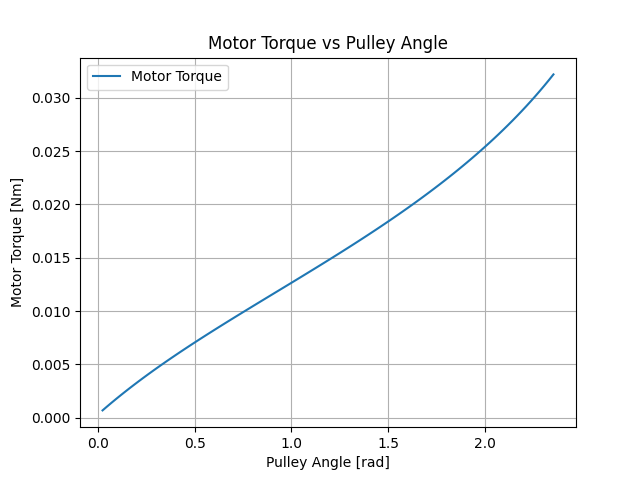
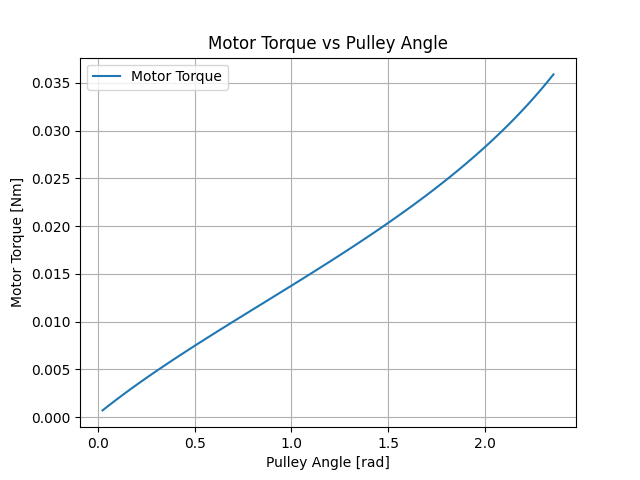
Final debugging, parameters simplified

diff --git a/main.py b/main.py
@@ -64,7 +64,7 @@ def main():
     r_tip = 0.004
     L_phalanxes = [0.04, 0.03]
     b_a_metacarpal = 0.006
-    type_phalanxes = [2,3]
+    type_phalanxes = [1,3]
     L_metacarpal = 0.01
 
 
@@ -92,12 +92,6 @@ def main():
 
     # Plot the finger video
     make_animation(finger_2,joint_angles)
-
-
-
-
-
-
 
 
 
